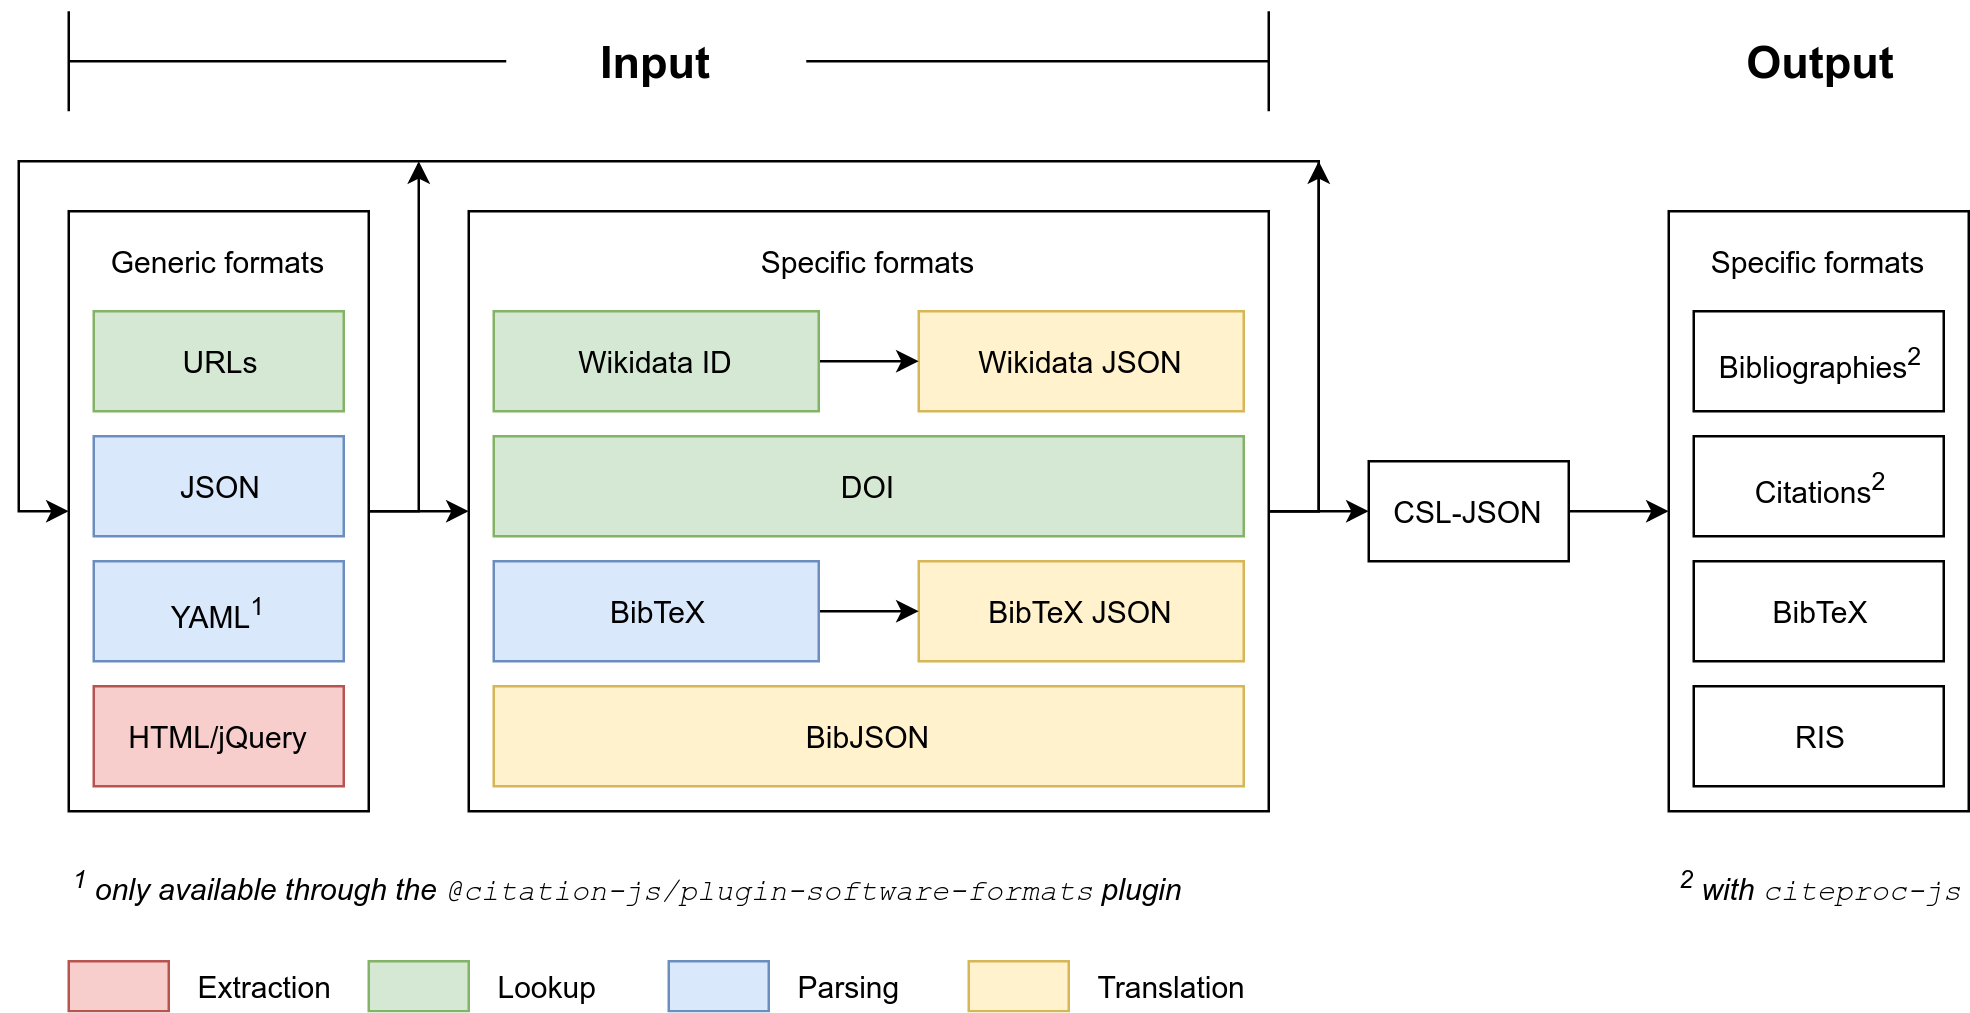
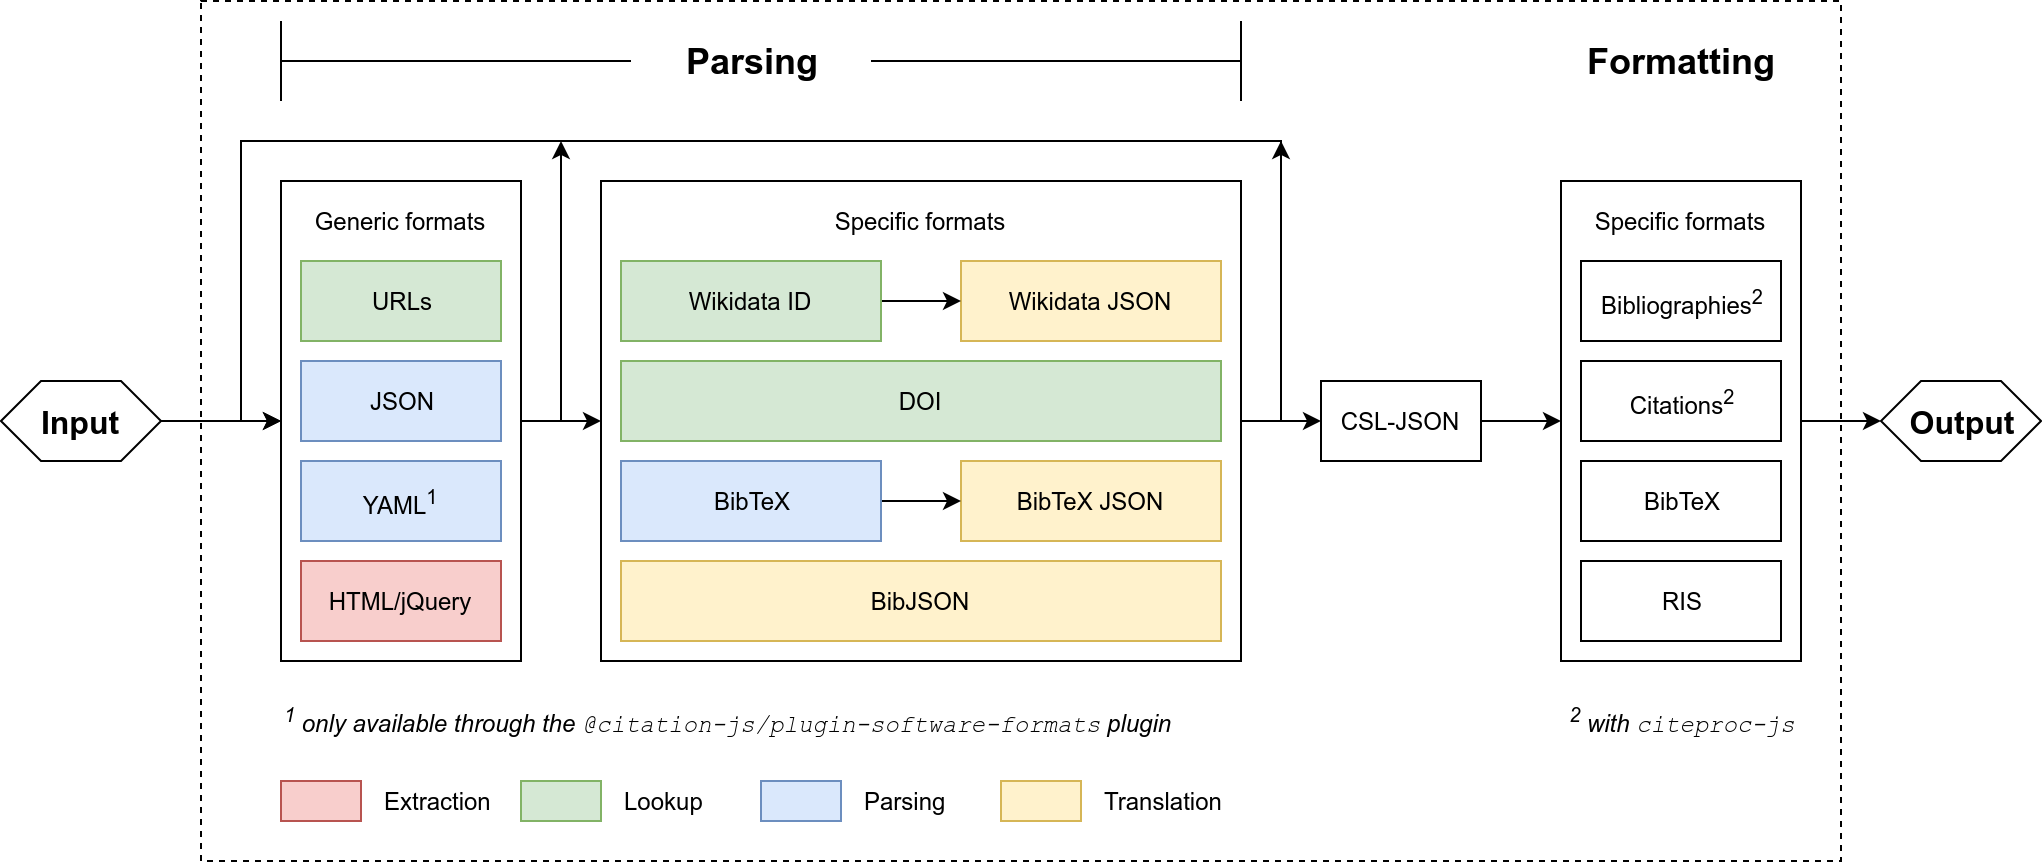
Clarify Figure 1

diff --git a/main.tex b/main.tex
@@ -51,7 +51,7 @@ This leads to reduced findability between organisations and disciplines \citep{g
 \begin{figure}[bt]
 \centering
 \includegraphics[width=\linewidth]{figures/Figure_1.png}
-\caption{\textbf{Program setup of Citation.js.} Extraction is separating data from noise, look-up is fetching information based on a Uniform Resource Locator (URL) or PID, parsing is transforming text-based formats into data structures, and translation is transforming data structures with different schemas.}
+\caption{\textbf{Program setup of Citation.js.} Everything within the dotted square is part of Citation.js or its dependencies. Extraction is separating data from noise, look-up is fetching information based on a Uniform Resource Locator (URL) or PID, parsing is transforming text-based formats into data structures, and translation is transforming data structures with different schemas.}
 \label{fig:structure}
 \end{figure}
 
